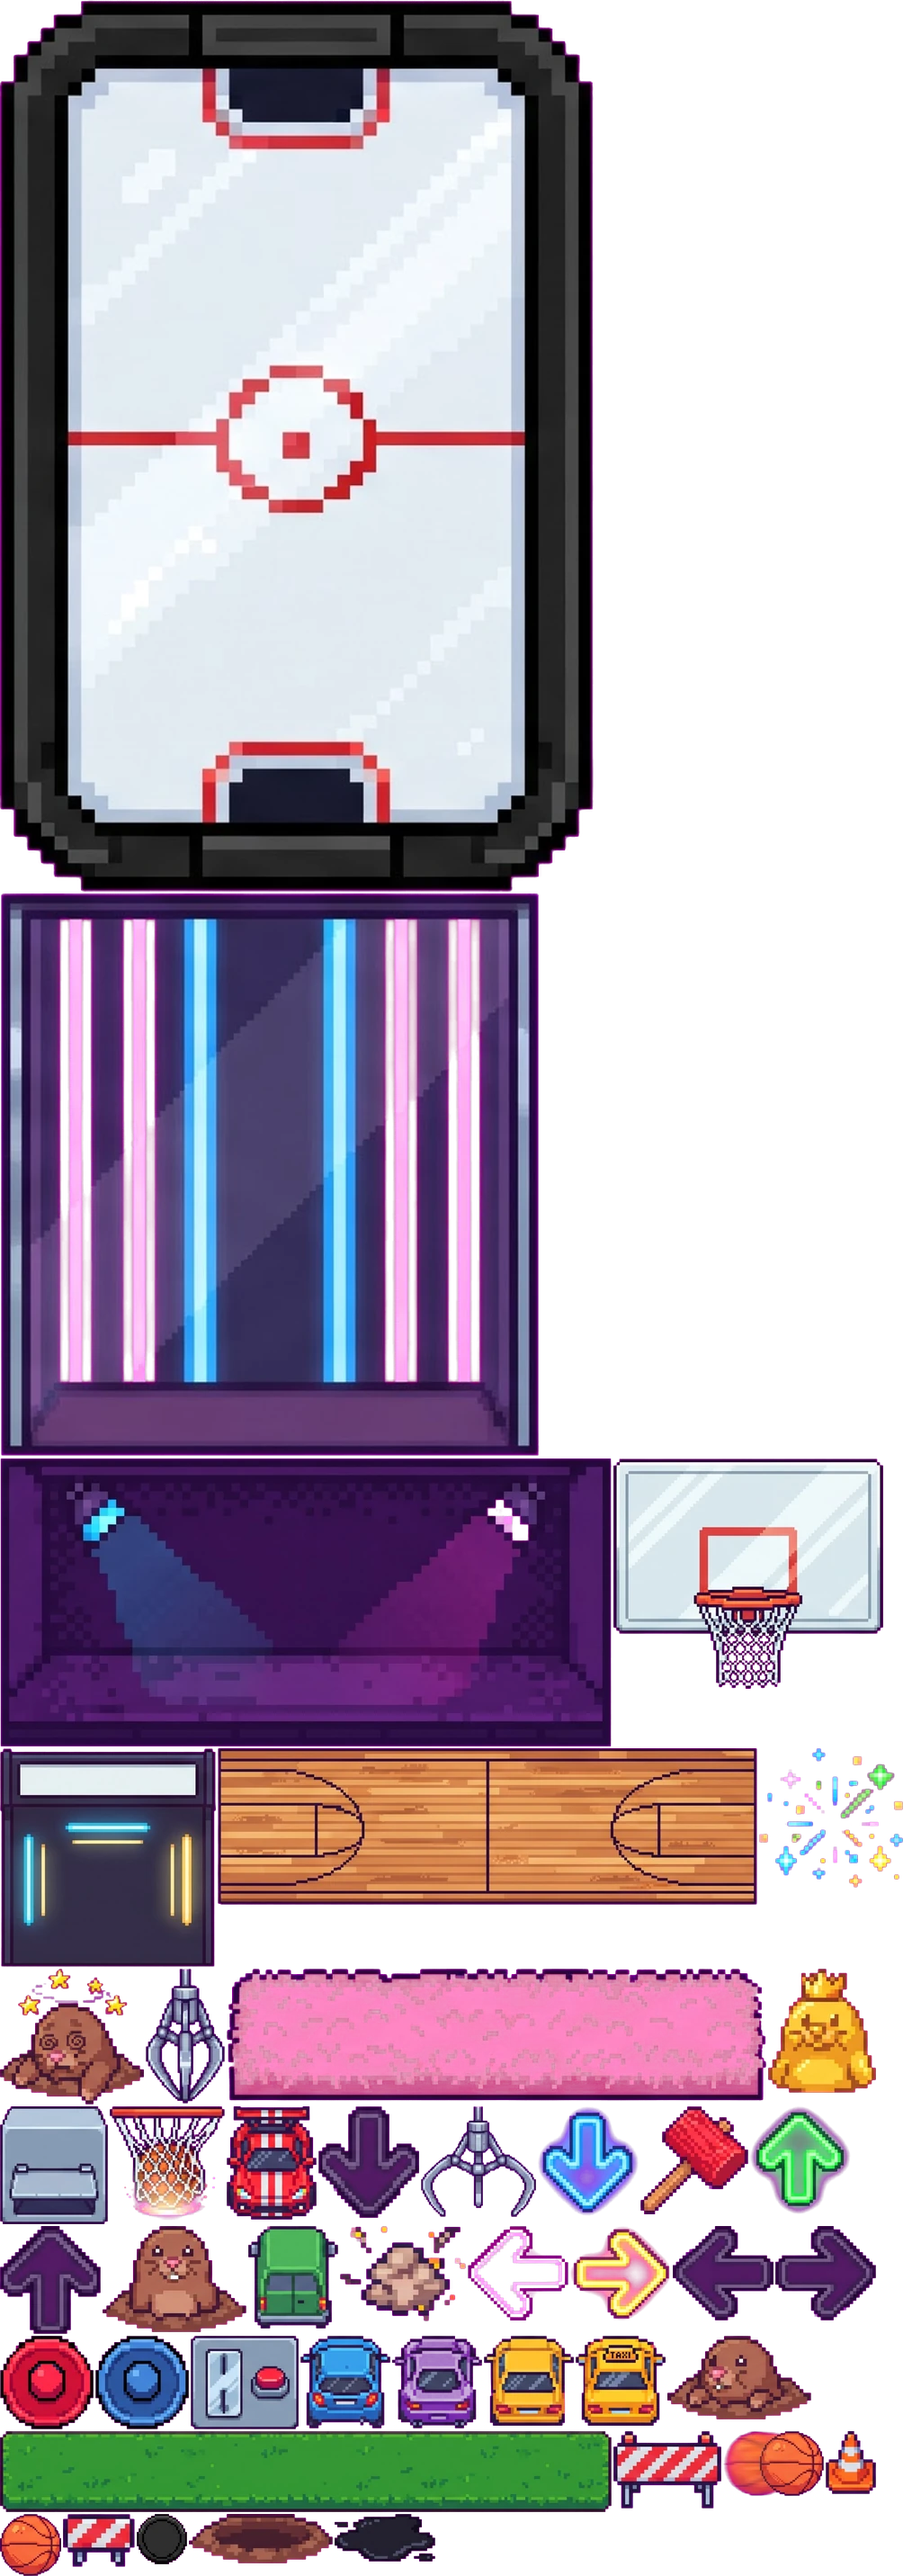
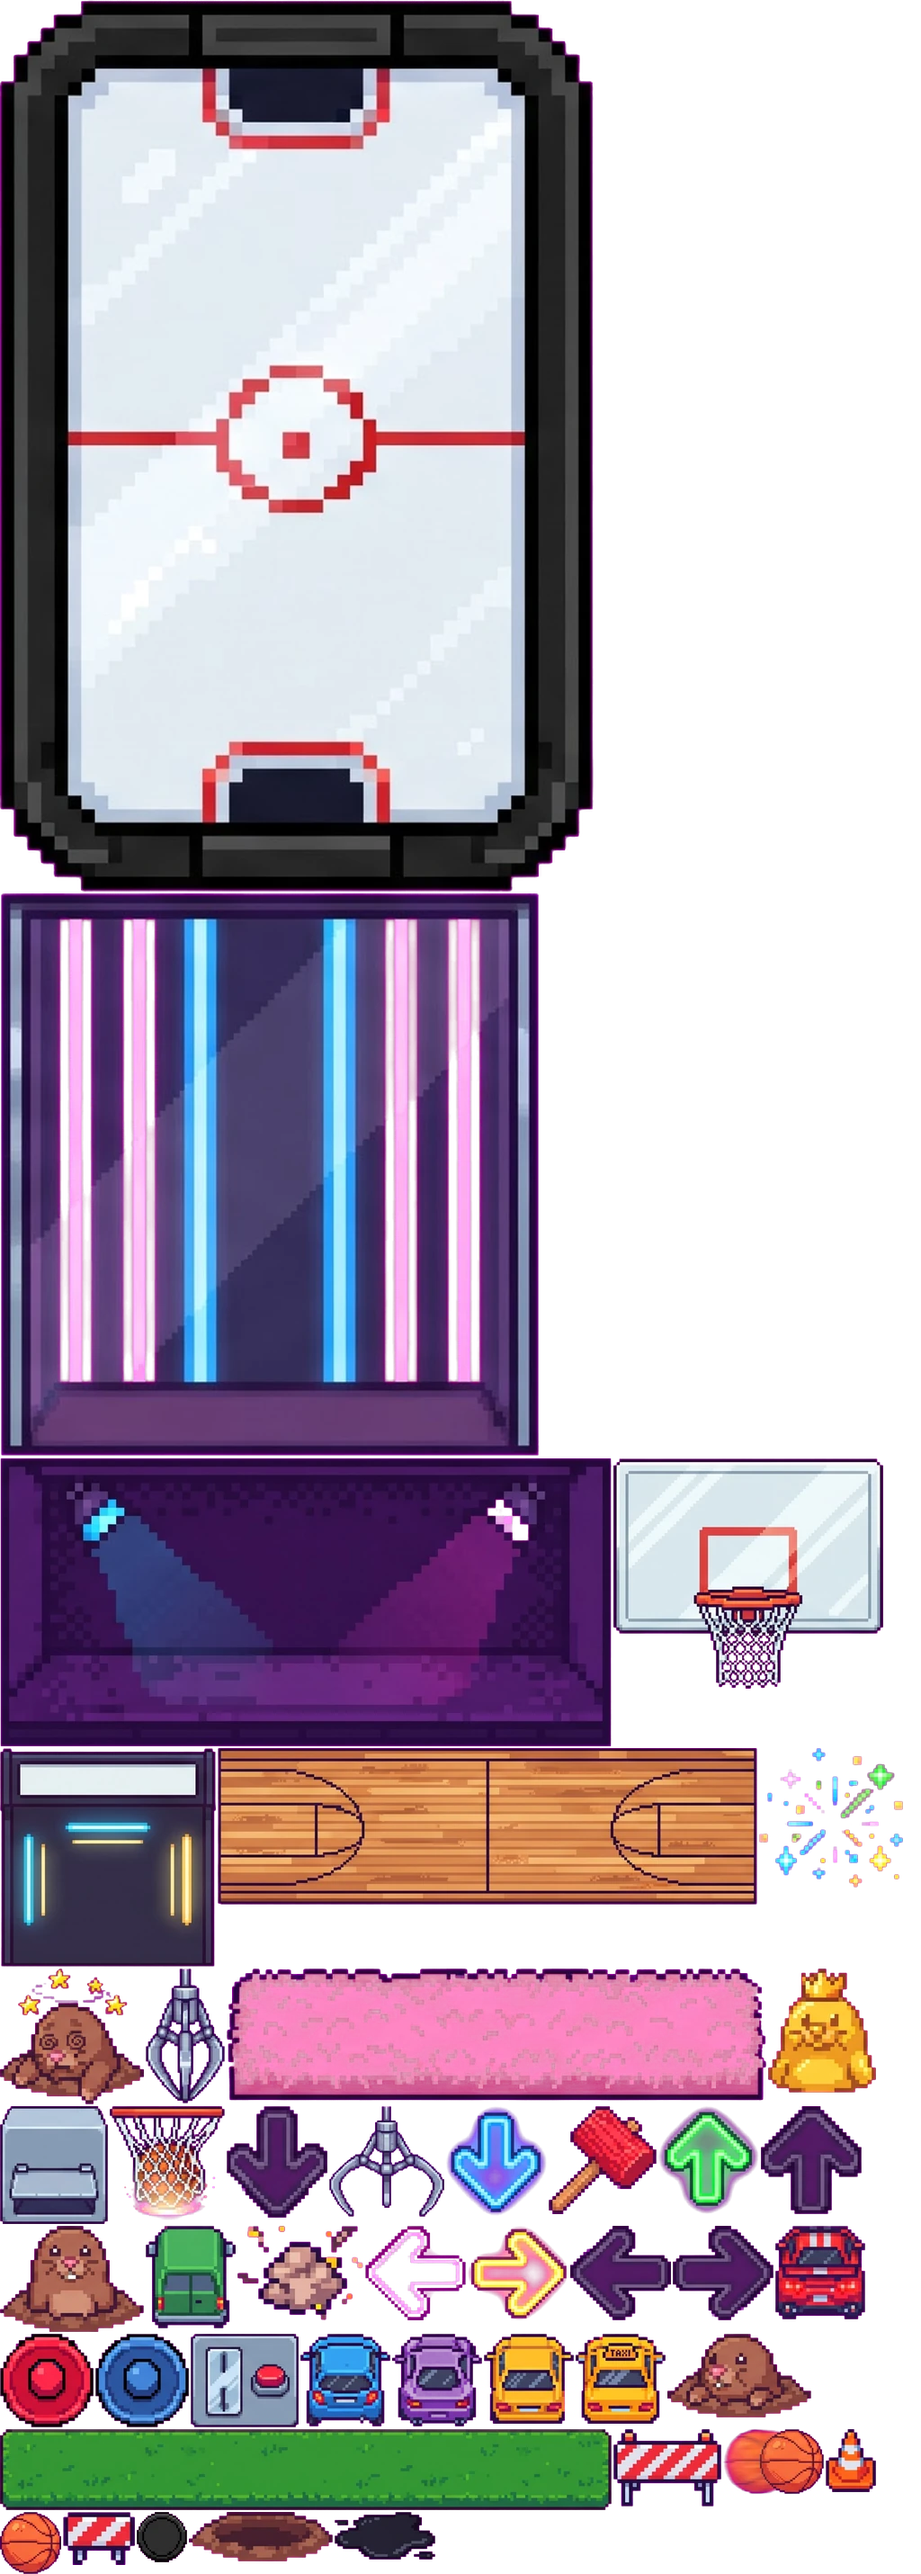
Racing mini-game: player car redrawn facing the way it drives
Claude-Session: https://claude.ai/code/session_011vTRLcvJmqJKhBboYRSi88

diff --git a/public/game.js b/public/game.js
@@ -3889,7 +3889,7 @@ function drawFair(e, X, Y, t) {
 let MGJ = null, MGI = null, MGR = null, mgAsked = false;
 function mgLoad() {
   if (mgAsked) return; mgAsked = true;
-  fetch('assets/mg.json?v=1').then(r => r.json()).then(j => { const im = new Image(); im.onload = () => { MGJ = j; MGI = im; }; im.src = 'assets/mg.webp?v=1'; }).catch(() => { mgAsked = false; });
+  fetch('assets/mg.json?v=2').then(r => r.json()).then(j => { const im = new Image(); im.onload = () => { MGJ = j; MGI = im; }; im.src = 'assets/mg.webp?v=2'; }).catch(() => { mgAsked = false; });
   const r = new Image(); r.onload = () => { MGR = r; }; r.src = 'assets/mg_road.webp?v=2';
 }
 function fairPlay(m) {
@@ -5409,6 +5409,7 @@ const NEWS = [
   { v: '2026-11-24a', d: '22 พ.ย.', items: [
     '🕹 <b>ตู้เกมในเกมเซ็นเตอร์โฉมใหม่</b> ภาพสวยทุกตู้: แข่งรถ 🏎 ชู้ตบาส 🏀 ทุบตัวตุ่น 🔨 (มีตัวทองได้ 3 แต้ม) เต้นตามลูกศร 💃 แอร์ฮอกกี้ 🏒 และตู้คีบตุ๊กตา 🧸',
     '🏎 แก้เกมแข่งรถ: รถจะไม่ขวางเต็มถนนอีกแล้ว มีเลนให้หลบเสมอ',
+    '🏎 รถของเราในเกมแข่งรถหันถูกทางแล้ว (เห็นท้ายรถ วิ่งไปข้างหน้า)',
   ] },
   { v: '2026-11-23ax', d: '21 พ.ย.', items: [
     '🕹 <b>เกมเซ็นเตอร์เปิดแล้วในสวนสนุก!</b> ตึกใหม่มุมตะวันออกของสวนสนุก · ตู้ชู้ตบาส 🏀 ทุบตัวตุ่น 🔨 เต้นตามลูกศร 💃 แข่งรถ 🏎 แอร์ฮอกกี้ 🏒 ครั้งละ ฿20 ได้ตั๋วตามคะแนน',
